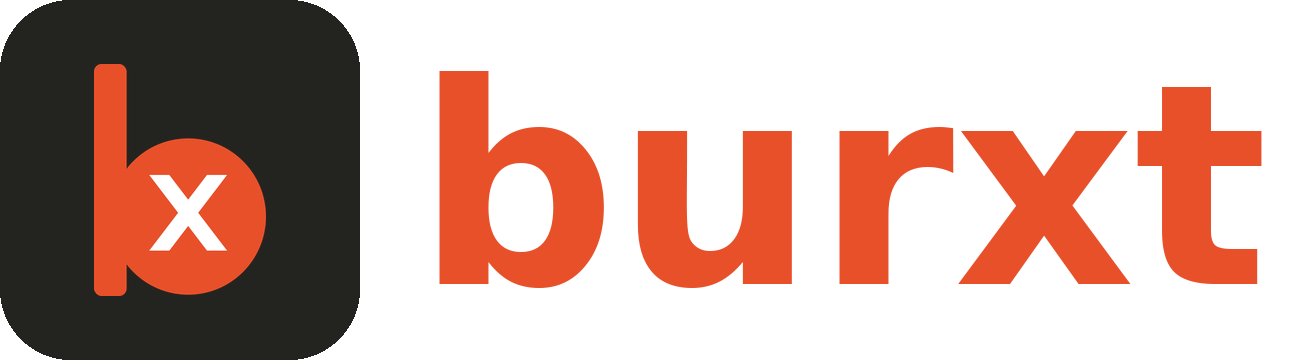
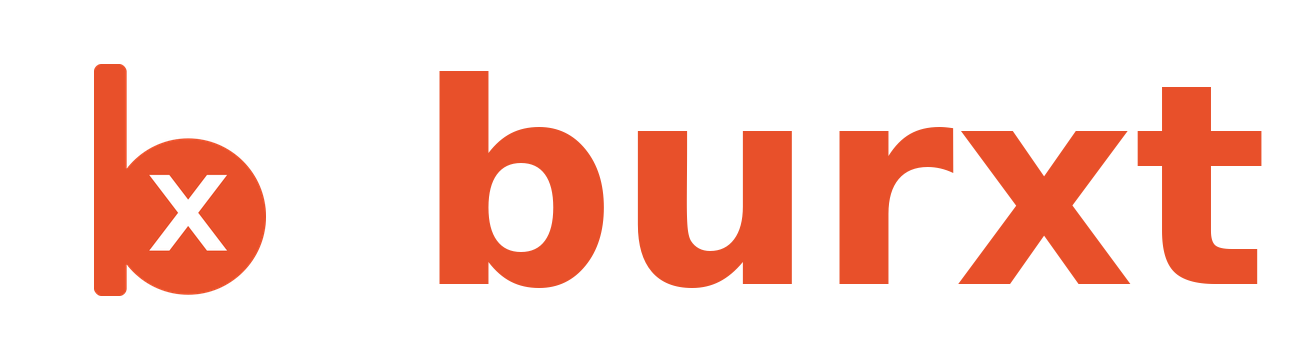
The lockup was the dark-bar variant, and my own check scored its black plate 15.8:1
Andre, with the URL: *"correct icon https://burxt-lang.org/assets/burxt-lockup-light.png"*. He is right, it
is what the Burxt session told me, and I overrode both on a measurement that was reading the wrong pixels.

**The three variants differ in the TILE behind the `b`, not in the ink.** Separating the two regions is the
whole thing, and I only did it after rendering the file and looking at it:

    the b glyph (x < 380)    -light #FFFFFF 81%    -dark #232320 79%    + #E8502A 16% in both
    the word    (x >= 380)   #E8502A 100%          #E8502A 100%

The word is orange either way. `-light` carries a **white** tile for a light bar and `-dark` a near-black
one for a dark bar — **the names are about the BAR.** I had read them as being about the ink, measured "the
most common opaque colour that is not the brand orange", called that the letters, and shipped a lockup with
a black box behind it onto a white bar.

**And the guard I wrote scored that black plate at 15.8:1 and passed it — while it would have failed the
correct file at 1.00:1.** Wrong in both directions, with a control that fired and therefore certified the
inversion. **A guard whose verdict is backwards is worse than no guard**, because the passing run is
evidence for the wrong file. It now checks the two real properties separately: the tile must disappear into
the bar (#FFFFFF, off by 0) and the word must read on it (#E8502A, 3.7:1, the 3:1 threshold for a graphic
[…]

Changed region(s): [[0.0, 0.0, 0.2746, 1.0]]

diff --git a/docs/assets/bmx.css b/docs/assets/bmx.css
@@ -272,3 +272,27 @@
 #sc-all:checked  ~ .all-note { display: block; }
 
 @media (prefers-reduced-motion: reduce) { .showcase .bmx > * { transition: none; } }
+
+/* ---- the wordmark's height, which is NOT the shared 22px -------------------------------------------
+ *
+ * Andre: *"follow the size of burxt navbar icon to the bmx and starb navbar icons, it means the burxt is
+ * the correct size."* `site.css` gives `.bar .mark img` 22px, and at 22px `[b]mx` reads visibly larger
+ * than the Burxt lockup beside it. **Chosen by rendering the real bar at 22, 18, 16 and 14.2 and looking
+ * at the four side by side** — 16px is where the two marks read as the same size.
+ *
+ * **And it is deliberately NOT the number the arithmetic gave.** Two properties agree on 14.2px: the
+ * shared `b` glyph renders 14.18px in the Burxt lockup, and the word's x-height parity works out at
+ * 14.35px. At 14.2px `[b]mx` reads SMALLER, because `burxt` is set bold and `mx` is weight 500 — equal
+ * letter heights at unequal stroke weight do not look equal. **The eye integrates ink, not height**, so
+ * the arithmetic was measuring the wrong quantity and the render settled it.
+ *
+ * Which makes this a per-project exception I previously argued against — *a constant that needs one is
+ * usually an asset that needs cropping.* That was true then and the crop happened. What is left is a real
+ * difference between the two marks: `burxt` is five bold letters with ascenders, `[b]mx` is two letters at
+ * x-height. **No shared constant can make two different words look the same size.**
+ *
+ * 14.5px under 768px keeps the 16:22 ratio against `site.css`'s 20px there. */
+.bar .mark img { height: 16px; }
+@media (max-width: 768px) {
+  .bar .mark img { height: 14.5px; }
+}

diff --git a/tests/branding.py b/tests/branding.py
@@ -43,43 +43,33 @@ TOLERANCE = 4            # 48px rounds coarsely: one row is 2%
 
 LOCKUP = "docs/assets/bmx-lockup.svg"
 
-# **The navbar's other mark, and the check that exists because copying a peer's choice would have shipped
-# an invisible one.** Upstream names these by INK colour, not by background: `burxt-lockup-light.png` has
-# #FFFFFF letters and `-dark` has #232320. The bar is `var(--paper)` — white — so the light variant scores
-# **1.00:1** and the wordmark reduces to its orange `b`. Their own live bar does exactly that.
+# **The navbar's other mark — and this check's first version got the verdict BACKWARDS.**
 #
-# The orange `b` passes on any background, which is why the failure looks like a design choice rather than
-# a mistake: something IS visible. So the test ignores the brand colour and asks about the letters.
+# It looked for "the most common opaque colour that is not the brand orange" and called that the letters.
+# That colour is the **tile behind the `b`**, and separating the two regions is the whole finding:
+#
+#     the b glyph (x < 380)   `-light` #FFFFFF 81%   `-dark` #232320 79%   + #E8502A 16% both
+#     the word    (x >= 380)  #E8502A 100% in BOTH
+#
+# So the word is orange either way, and the variants differ in the tile — `-light` carries a white tile for
+# a light bar, `-dark` a near-black one for a dark bar. The names are about the BAR, not the ink. My check
+# therefore scored `-dark`'s black plate against a white bar at **15.8:1 and passed it**, which is how a
+# lockup with a black box behind it reached production, and it would have **failed the correct file at
+# 1.00:1**. A guard that is wrong in both directions with a control that fires is worse than no guard:
+# the control certified the inversion.
+#
+# The two real properties, separately:
+#
+#   - **the tile must disappear into the bar** — near-equal colour, which is what choosing the right
+#     variant means, and the only thing that distinguishes these two files
+#   - **the word must be readable on the bar** — 3:1, the threshold for large graphics rather than 4.5:1
+#     for body text, because these letters render at 22px
 BAR_LOCKUP = "docs/assets/burxt-lockup.png"
 BAR_BACKGROUND = (255, 255, 255)     # `.bar { background: var(--paper) }`, and 0.72 white over it
-BRAND = (0xE8, 0x50, 0x2A)           # the `b`, which is legible either way and must not be counted
-MIN_CONTRAST = 4.5
-
-
-def luminance(rgb):
-    def channel(v):
-        v /= 255
-        return v / 12.92 if v <= 0.03928 else ((v + 0.055) / 1.055) ** 2.4
-    r, g, bl = (channel(c) for c in rgb)
-    return 0.2126 * r + 0.7152 * g + 0.0722 * bl
-
-
-def contrast(a, b):
-    la, lb = luminance(a), luminance(b)
-    hi, lo = max(la, lb), min(la, lb)
-    return (hi + 0.05) / (lo + 0.05)
-
-
-def letter_colour(rows, w):
-    """The most common opaque colour that is not the brand orange: the letters."""
-    seen = {}
-    for r in rows:
-        for x in range(0, w * 4, 4):
-            if r[x + 3] > 128:
-                px = (r[x], r[x + 1], r[x + 2])
-                if max(abs(px[i] - BRAND[i]) for i in range(3)) > 40:
-                    seen[px] = seen.get(px, 0) + 1
-    return max(seen, key=seen.get) if seen else None
+BRAND = (0xE8, 0x50, 0x2A)           # the letters and the `b`, legible on either bar
+GLYPH_WIDTH = 380                    # the tile occupies the first 380 of 1311 columns
+MIN_WORD_CONTRAST = 3.0              # large graphics
+MAX_TILE_DIFF = 24                   # per channel, for "the tile is the bar"
 
 
 def decode(data):
@@ -141,6 +131,32 @@ def ink_percent(rows, h):
     return 0 if top is None else round(100 * (bot - top + 1) / h)
 
 
+def luminance(rgb):
+    def channel(v):
+        v /= 255
+        return v / 12.92 if v <= 0.03928 else ((v + 0.055) / 1.055) ** 2.4
+    r, g, bl = (channel(c) for c in rgb)
+    return 0.2126 * r + 0.7152 * g + 0.0722 * bl
+
+
+def contrast(a, b):
+    la, lb = luminance(a), luminance(b)
+    hi, lo = max(la, lb), min(la, lb)
+    return (hi + 0.05) / (lo + 0.05)
+
+
+def dominant(rows, w, x0, x1):
+    """The most common opaque colour in a column range."""
+    seen = {}
+    for r in rows:
+        for x in range(x0, min(x1, w)):
+            o = x * 4
+            if r[o + 3] > 128:
+                px = (r[o], r[o + 1], r[o + 2])
+                seen[px] = seen.get(px, 0) + 1
+    return max(seen, key=seen.get) if seen else None
+
+
 def main():
     prove = "--prove-it" in sys.argv
     failures = 0
@@ -169,25 +185,37 @@ def main():
         else:
             print(f"  ok    {path} {w}x{h}, ink {pct}% of height")
 
-    # **The bar's Burxt lockup has to be readable ON the bar.**
+    # **The bar's Burxt lockup: the tile vanishes, the word reads.**
     w, h, ctype, rows = decode((ROOT / BAR_LOCKUP).read_bytes())
     if prove:
-        # The control is the variant upstream actually ships in its own bar: white letters, white bar.
-        rows = [bytes([255, 255, 255, 255] * w) for _ in range(h)]
-    letters = letter_colour(rows, w) if rows else None
-    if letters is None:
+        # The control is the file I actually shipped: the dark-bar variant, on a light bar.
+        rows = [bytes(([0x23, 0x23, 0x20, 255] * min(GLYPH_WIDTH, w))
+                      + ([0xE8, 0x50, 0x2A, 255] * max(0, w - GLYPH_WIDTH))) for _ in range(h)]
+
+    tile = dominant(rows, w, 0, GLYPH_WIDTH)
+    word = dominant(rows, w, GLYPH_WIDTH, w)
+    if tile is None or word is None:
         failures += 1
-        print(f"  FAIL  {BAR_LOCKUP} has no letters distinct from the brand orange to measure")
+        print(f"  FAIL  {BAR_LOCKUP} has no ink in one of its two regions to measure")
     else:
-        ratio = contrast(letters, BAR_BACKGROUND)
-        if ratio < MIN_CONTRAST:
+        drift = max(abs(tile[i] - BAR_BACKGROUND[i]) for i in range(3))
+        if drift > MAX_TILE_DIFF:
             failures += 1
-            print(f"  FAIL  {BAR_LOCKUP}'s letters are #{letters[0]:02X}{letters[1]:02X}{letters[2]:02X} "
-                  f"on a white bar — {ratio:.2f}:1, below {MIN_CONTRAST}:1. The orange `b` still shows, "
-                  f"so this looks like a design choice rather than an unreadable wordmark")
+            print(f"  FAIL  {BAR_LOCKUP}'s tile is #{tile[0]:02X}{tile[1]:02X}{tile[2]:02X} on a white bar "
+                  f"— off by {drift} per channel, so it renders as a box behind the mark. This is the "
+                  f"dark-bar variant; upstream ships one per bar and the names are about the BAR")
         else:
-            print(f"  ok    {BAR_LOCKUP}'s letters read on the bar "
-                  f"(#{letters[0]:02X}{letters[1]:02X}{letters[2]:02X}, {ratio:.1f}:1)")
+            print(f"  ok    {BAR_LOCKUP}'s tile disappears into the bar "
+                  f"(#{tile[0]:02X}{tile[1]:02X}{tile[2]:02X})")
+
+        ratio = contrast(word, BAR_BACKGROUND)
+        if ratio < MIN_WORD_CONTRAST:
+            failures += 1
+            print(f"  FAIL  {BAR_LOCKUP}'s word is #{word[0]:02X}{word[1]:02X}{word[2]:02X} on a white bar "
+                  f"— {ratio:.2f}:1, below {MIN_WORD_CONTRAST}:1 for a graphic this size")
+        else:
+            print(f"  ok    {BAR_LOCKUP}'s word reads on the bar "
+                  f"(#{word[0]:02X}{word[1]:02X}{word[2]:02X}, {ratio:.1f}:1)")
 
     svg = (ROOT / LOCKUP).read_text()
     # **Their warning, and the caveat that makes it checkable.** The transparent wordmark *does* contain a
